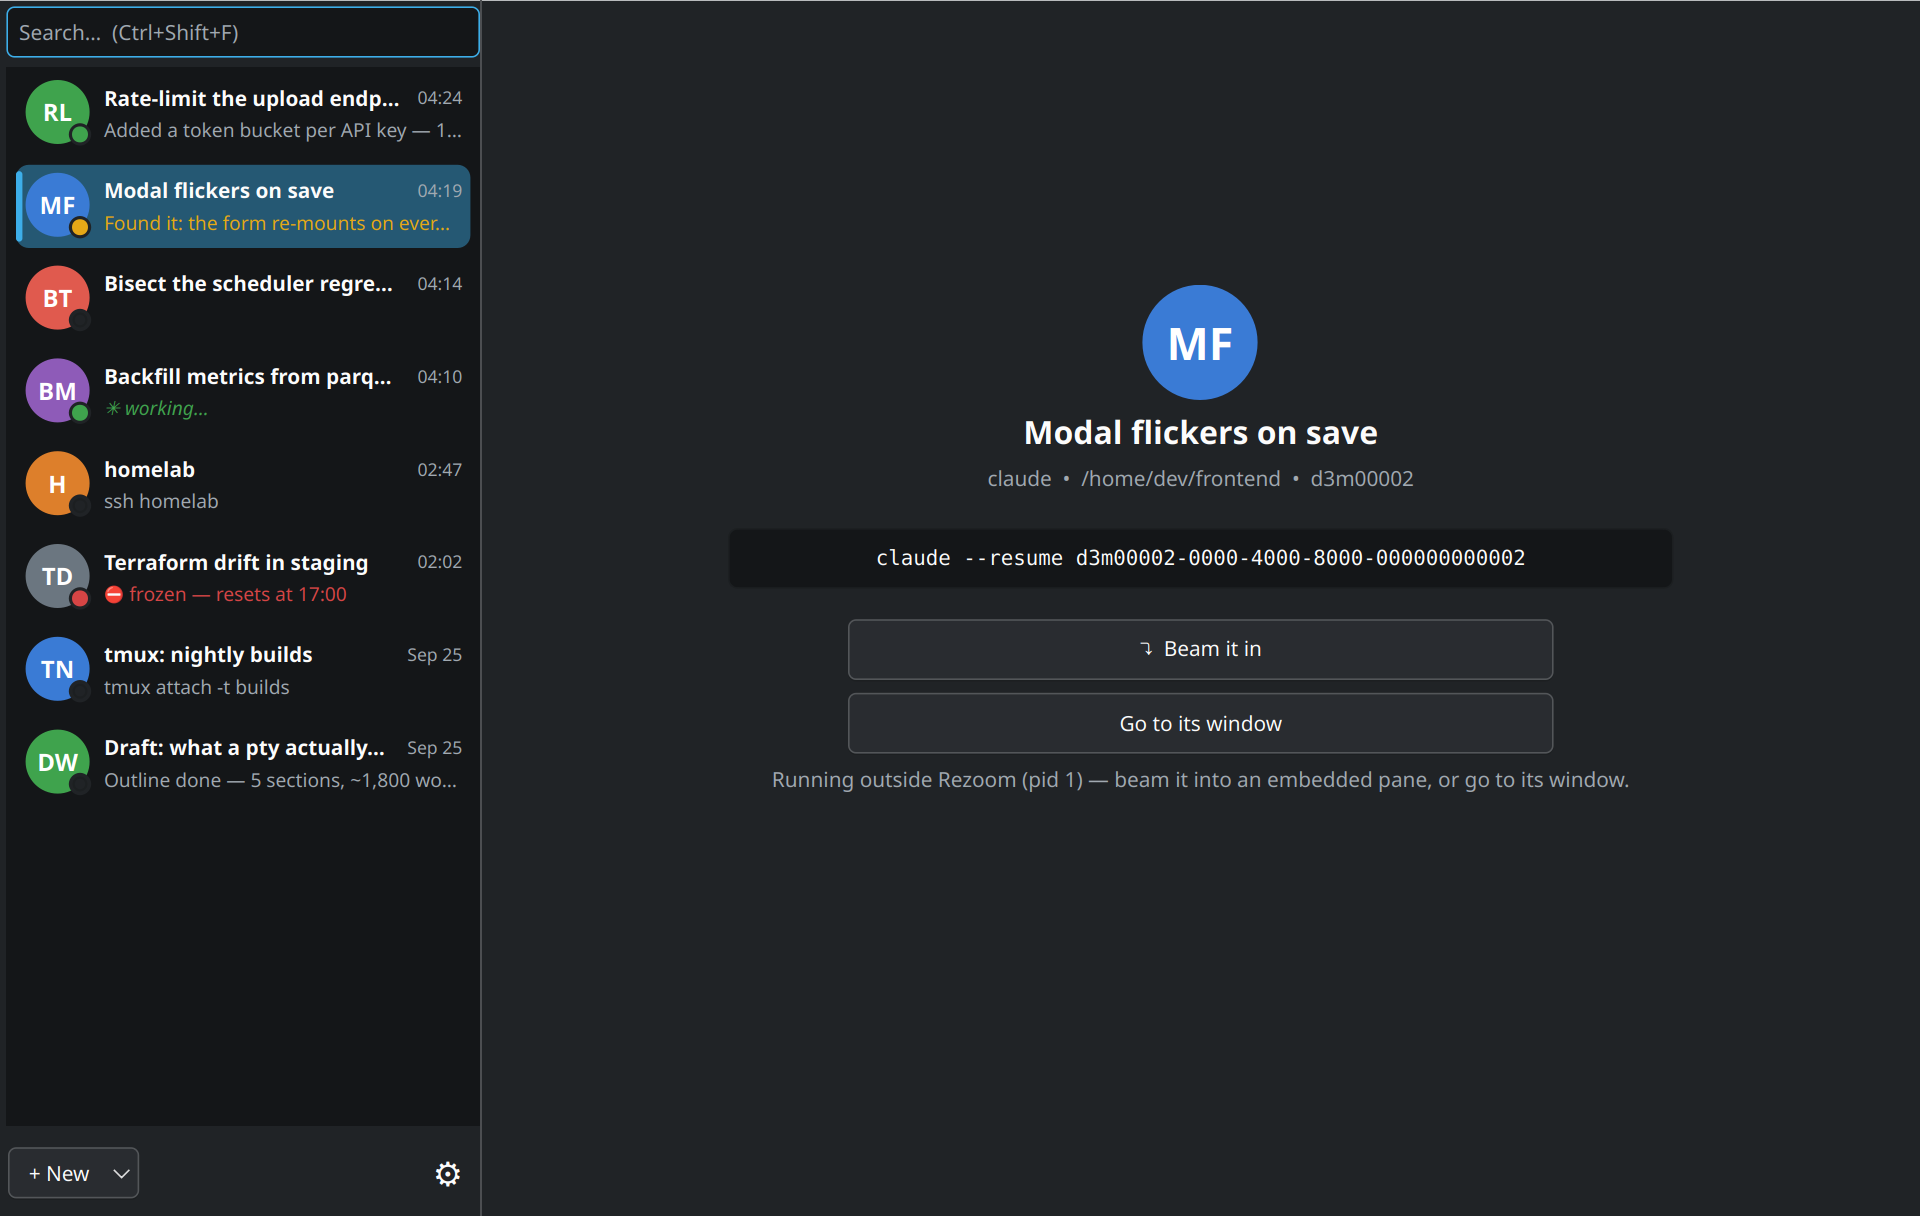
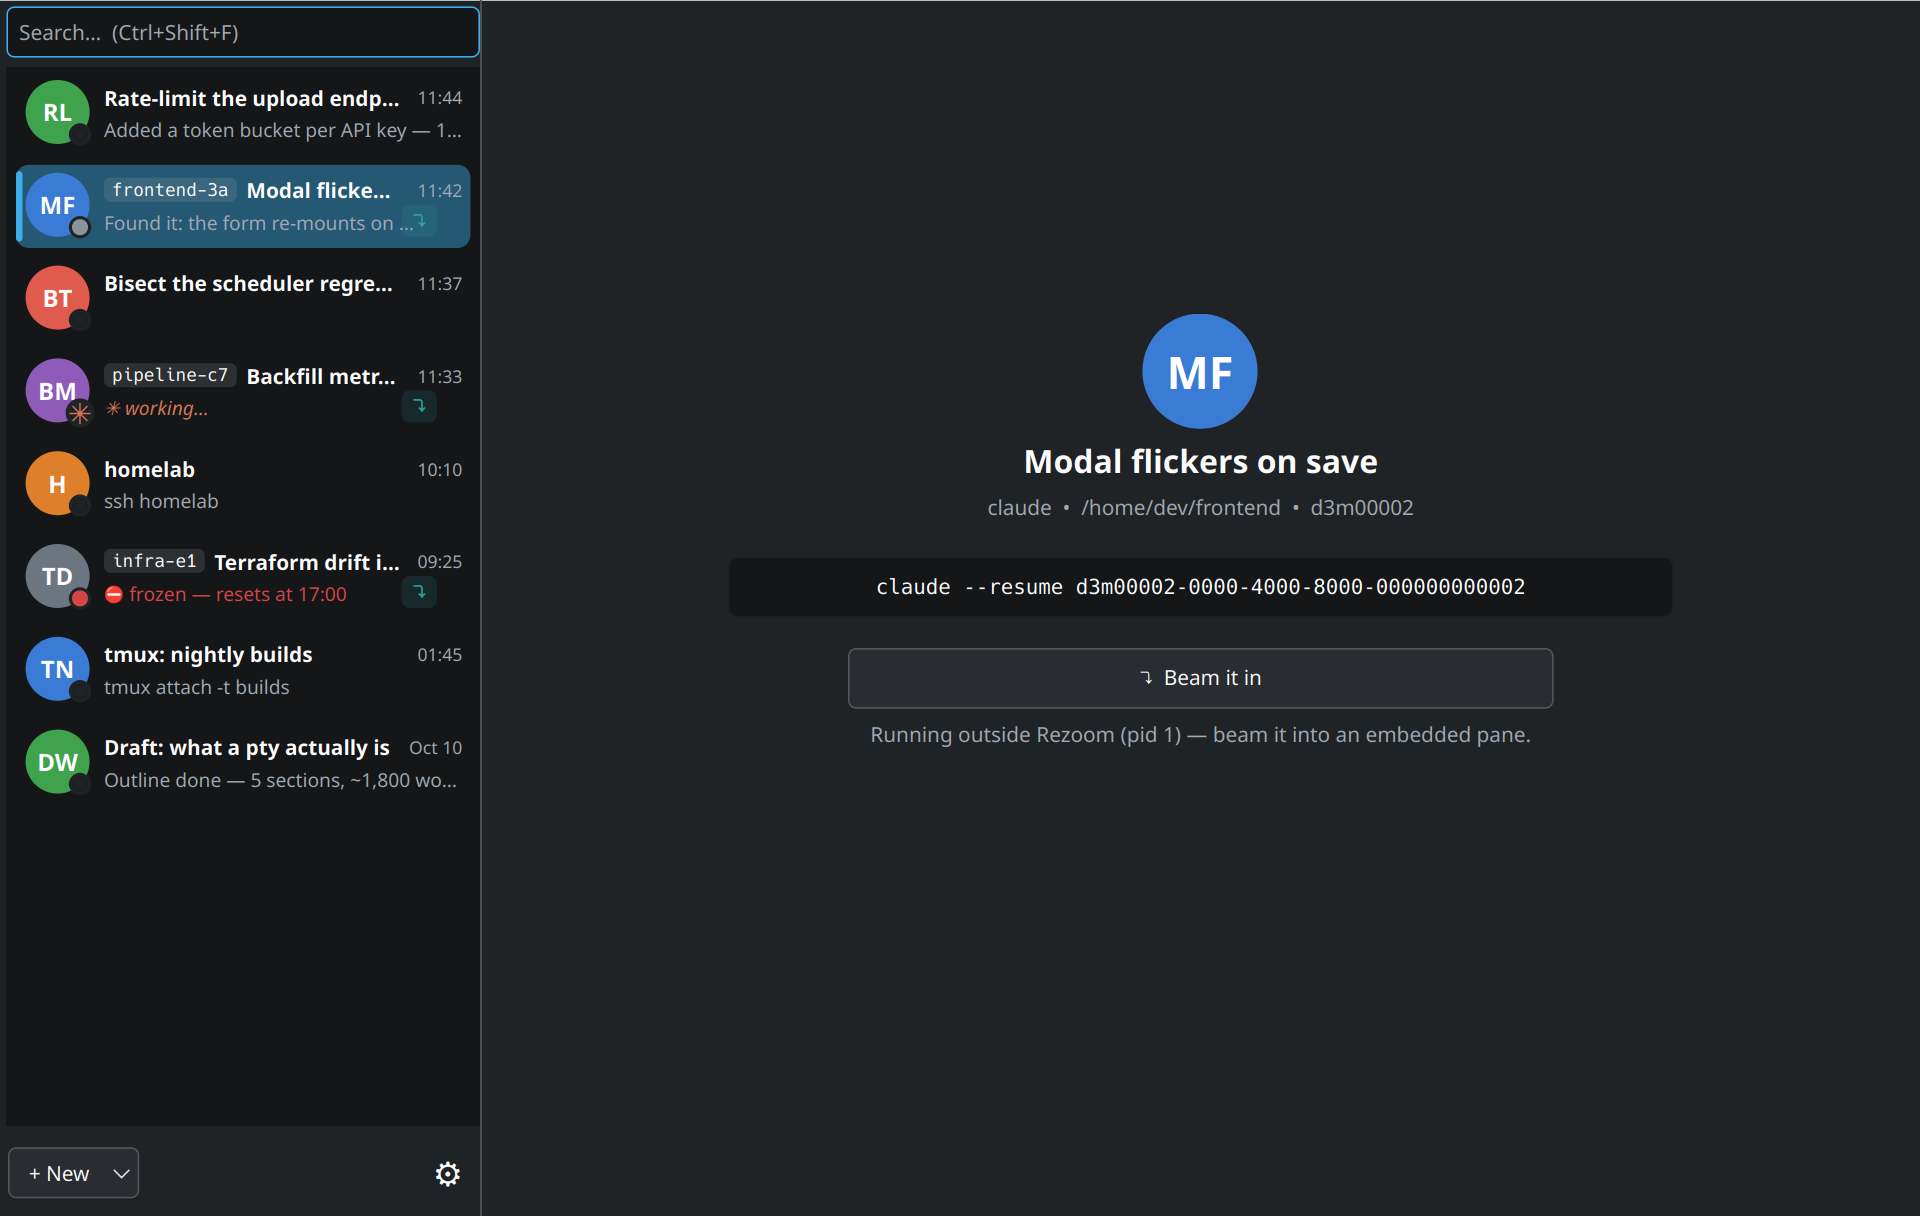
README + docs: v1.2 screenshots and features
New screenshots (orange working spinner, agent-name chips, row ⤵ beam
buttons), and the feature list mentions agent names, the one-click row
beam-in, and ssh tabs showing up as chats.

Claude-Session: https://claude.ai/code/session_01M2jefieciVdB9Q8FsAXest

diff --git a/README.md b/README.md
@@ -27,15 +27,18 @@ theme, embeds real Konsole terminals.
   resumable — its live title, and its latest output while it works. New sessions
   appear on their own; tool-spawned ones (in `/tmp`, or started by another claude)
   are left out.
-- **Find the one you mean.** External sessions carry their Konsole window title,
-  and search matches titles, messages and folders.
+- **Find the one you mean.** Each running session shows the name other agents
+  call it by (`bex-6b`), external sessions carry their Konsole window title, and
+  search matches names, titles, messages and folders.
 - **Never lose a session.** Every chat keeps the exact command that brings it back.
   Whatever was running comes back when Rezoom starts, even after a crash.
 - **Move sessions without killing them.** A session running in some other Konsole
-  window can be beamed into Rezoom live (reptyr), or you can jump to its window.
-  "Restart to update" is one keystroke per session.
+  window gets a ⤵ on its row: one click beams it into Rezoom live (reptyr), and the
+  old window is closed for you. Or jump to its window. "Restart to update" is one
+  keystroke per session.
 - **Rezoom over SSH.** An `ssh` typed in any pane is recorded as that chat's way back
-  in; live ssh connections can be adopted; **Scan remote** lists the claude and tmux
+  in; an ssh open in any Konsole tab shows up as a chat, with the remote claude's
+  working/your-turn state read from its title; **Scan remote** lists the claude and tmux
   sessions on a host and adopts each one, resuming with `ssh -t host 'claude --resume …'`.
   Nothing connects until you click.
 - **More than one Claude login? Optional.** Right-click a chat → **Run under another
@@ -71,7 +74,7 @@ default). SSH chats never connect until you click.
 [latest release](https://github.com/BEX-Robotics/rezoom/releases/latest):
 
 ```sh
-sudo apt install ./rezoom_1.1.0_amd64.deb   # pulls Qt6/KF6/konsole-kpart via apt
+sudo apt install ./rezoom_1.2.0_amd64.deb   # pulls Qt6/KF6/konsole-kpart via apt
 ```
 
 **Fedora/openSUSE** — build from the spec: `rpmbuild -ba dist/rezoom.spec`.
